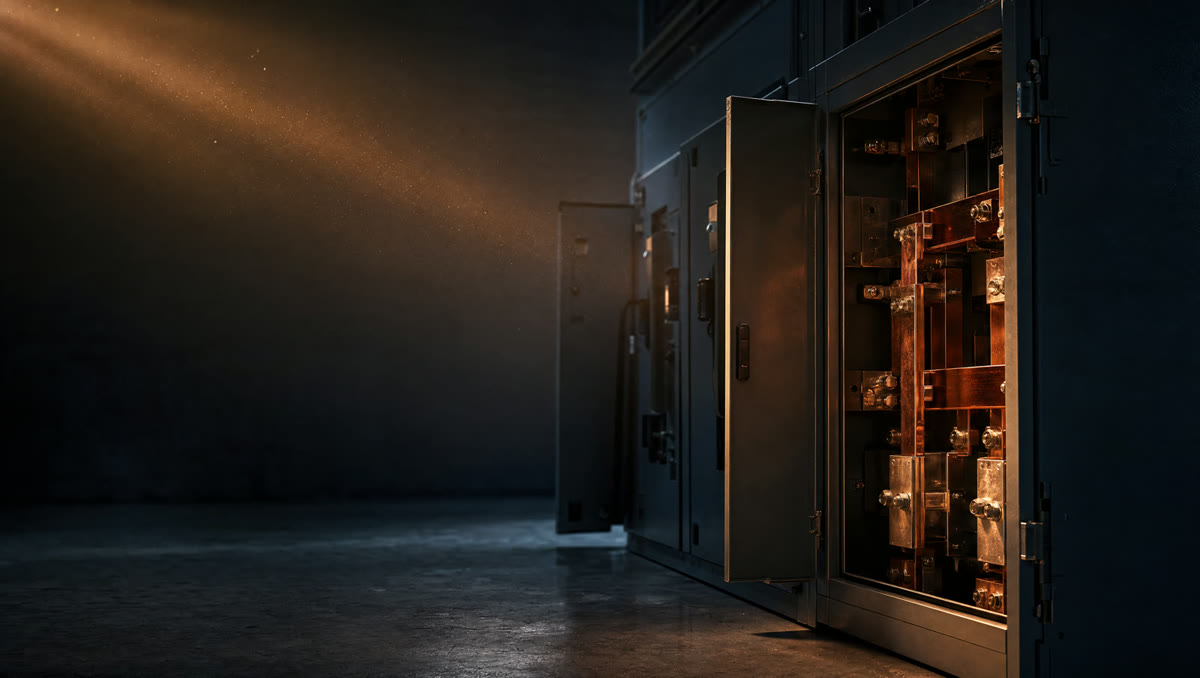
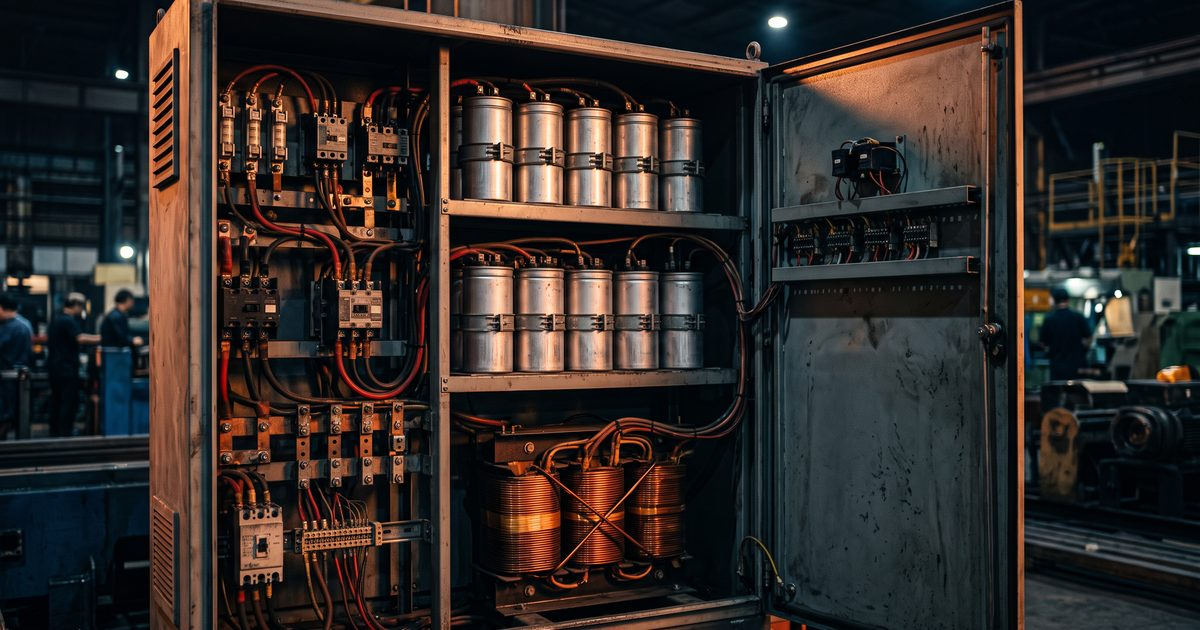
Add new image library to service pages and blog covers
Energy audit gets a "what waste looks like" gallery; compliance assurance
gets a data hall hero and two review shots; each SSEG tab gets its own
image; the SSEG and power factor posts get new covers and share images.

diff --git a/src/style.css b/src/style.css
@@ -587,3 +587,26 @@ body.video-failed .bg-video { display: none; }
 .tri-small { fill: var(--text); font: 600 20px var(--font); }
 .triangle figcaption { color: var(--muted); font-size: .92rem; margin-top: .8rem; }
 .tri-label--sub { font-weight: 500; font-size: 16px; }
+
+/* Image library (2026-10-25): the waste gallery, review shots, and a picture per SSEG tab */
+.waste-shots { display: grid; grid-template-columns: 1.6fr 1fr; grid-template-rows: auto 1fr 1fr; gap: 1.2rem 1.6rem; padding: 16vh var(--gutter); background: var(--bg); }
+.waste-shots__head { grid-column: 1 / -1; max-width: 46rem; margin-bottom: 1.2rem; }
+.waste-shots__head h2 { font-size: clamp(2rem, 4vw, 3.4rem); font-weight: 800; }
+.waste-shots figure { margin: 0; display: flex; flex-direction: column; min-width: 0; }
+.waste-shots img { width: 100%; flex: 1; min-height: 0; object-fit: cover; border-radius: var(--radius); }
+.waste-shots__main { grid-row: 2 / span 2; }
+.waste-shots__main img { aspect-ratio: 4 / 3; }
+.waste-shots figure:not(.waste-shots__main) img { aspect-ratio: 16 / 9; }
+.waste-shots figcaption, .shots figcaption { color: var(--muted); font-size: .95rem; margin-top: .7rem; }
+.shots { display: grid; grid-template-columns: 1.35fr 1fr; gap: 1.6rem; margin: 2rem 0 1rem; align-items: end; }
+.shots figure { margin: 0; min-width: 0; }
+.shots img { width: 100%; height: auto; aspect-ratio: 16 / 10; object-fit: cover; border-radius: var(--radius); }
+.shots figure:last-child img { aspect-ratio: 4 / 3; }
+.seg__img { width: 100%; height: auto; aspect-ratio: 16 / 10; object-fit: cover; border-radius: var(--radius); margin-bottom: 1.4rem; display: block; }
+@media (max-width: 768px) {
+  .waste-shots { grid-template-columns: 1fr; grid-template-rows: none; padding: 12vh 16px; }
+  .waste-shots__main { grid-row: auto; }
+  .waste-shots__main img { aspect-ratio: 4 / 3; }
+  .shots { grid-template-columns: 1fr; }
+  .shots figure:last-child img { aspect-ratio: 16 / 10; }
+}

diff --git a/sseg-commissioning/index.html b/sseg-commissioning/index.html
@@ -276,14 +276,17 @@
           <button role="tab" id="tab-ind" aria-selected="false" aria-controls="panel-ind" tabindex="-1">Industrial</button>
         </div>
         <div class="seg__panel" role="tabpanel" id="panel-res" aria-labelledby="tab-res">
+          <img class="seg__img" src="/img/home-solar.jpg" alt="A Cape Town home with rooftop solar panels at dusk, Table Mountain behind it" loading="lazy" width="1400" height="781" />
           <h3>Homeowners</h3>
           <p>Your installer has finished and the inverter is running, but the municipality has not approved the connection yet. We check the paperwork, test the system on site, and sign the commissioning report so your application can go in complete the first time.</p>
         </div>
         <div class="seg__panel" role="tabpanel" id="panel-com" aria-labelledby="tab-com" hidden>
+          <img class="seg__img" src="/img/sseg-inverters.jpg" alt="Hybrid inverters, isolators and a battery cabinet in a plant room" loading="lazy" width="1920" height="1072" />
           <h3>Business owners</h3>
           <p>Offices, retail, farms and hospitality sites with rooftop PV, backup batteries and generators. We test how the inverter, the backup supply and the grid behave together, so the system that saves you money doesn't become the one that trips you offline.</p>
         </div>
         <div class="seg__panel" role="tabpanel" id="panel-ind" aria-labelledby="tab-ind" hidden>
+          <img class="seg__img" src="/img/plant-night.jpg" alt="An industrial process plant lit up at night" loading="lazy" width="1400" height="781" />
           <h3>Industrial sites</h3>
           <p>Larger arrays, export limiting, protection settings and interfaces with existing MV and LV distribution. We commission against the utility's requirements and report what your engineering team needs for the long run, not just what the application form asks for.</p>
         </div>

diff --git a/blog/sseg-registration-cape-town-guide/index.html b/blog/sseg-registration-cape-town-guide/index.html
@@ -41,7 +41,7 @@
         "headline": "SSEG registration in Cape Town: A step-by-step guide for 2026",
         "description": "How to get a solar PV or battery system authorised by the City of Cape Town in 2026: Who must apply, the 11 steps, documents, sign-off and penalties.",
         "image": [
-          "https://bynergex.com/img/doorway.jpg",
+          "https://bynergex.com/img/sseg-inverters.jpg",
           "https://bynergex.com/img/blog-sseg-og.jpg"
         ],
         "datePublished": "2026-10-22",
@@ -181,7 +181,7 @@
   <main id="page">
     <article class="post">
       <header class="post-hero">
-        <img class="page-hero__bg page-hero__bg--flip" src="/img/doorway.jpg" alt="An open roller door looking out onto a rooftop of solar panels at dusk" fetchpriority="high" width="1920" height="1080" />
+        <img class="page-hero__bg" src="/img/sseg-inverters.jpg" alt="Two hybrid inverters, isolators and a battery cabinet installed in a plant room" fetchpriority="high" width="1920" height="1072" />
         <div class="page-hero__copy">
           <nav class="crumbs" aria-label="Breadcrumb"><a href="/">Home</a><span aria-hidden="true">/</span><a href="/blog/">Blog</a><span aria-hidden="true">/</span><span aria-current="page">SSEG registration in Cape Town</span></nav>
           <p class="kicker">SSEG commissioning · 2026 guide</p>

diff --git a/blog/power-factor-correction-south-africa/index.html b/blog/power-factor-correction-south-africa/index.html
@@ -41,7 +41,7 @@
         "headline": "Power factor correction in South Africa: How to stop paying for power that does no work",
         "description": "What power factor is, how Eskom's reactive energy charge and kVA demand charges penalise it, and how to correct it safely. With a worked example.",
         "image": [
-          "https://bynergex.com/img/material.jpg",
+          "https://bynergex.com/img/pfc-cabinet.jpg",
           "https://bynergex.com/img/blog-pf-og.jpg"
         ],
         "datePublished": "2026-10-25",
@@ -182,7 +182,7 @@
   <main id="page">
     <article class="post">
       <header class="post-hero">
-        <img class="page-hero__bg" src="/img/material.jpg" alt="An open medium-voltage switchgear panel with copper busbars" fetchpriority="high" width="1600" height="905" />
+        <img class="page-hero__bg" src="/img/pfc-cabinet.jpg" alt="An open power factor correction cabinet with capacitor banks, contactors and a detuning reactor" fetchpriority="high" width="1920" height="1072" />
         <div class="page-hero__copy">
           <nav class="crumbs" aria-label="Breadcrumb"><a href="/">Home</a><span aria-hidden="true">/</span><a href="/blog/">Blog</a><span aria-hidden="true">/</span><span aria-current="page">Power factor correction</span></nav>
           <p class="kicker">Energy efficiency · 2026 guide</p>

diff --git a/electrical-compliance-assurance/index.html b/electrical-compliance-assurance/index.html
@@ -235,7 +235,7 @@
 
   <main id="page">
     <section class="page-hero">
-      <img class="page-hero__bg" src="/img/hero.jpg" alt="" fetchpriority="high" />
+      <img class="page-hero__bg" src="/img/data-hall.jpg" alt="" fetchpriority="high" width="1920" height="1072" />
       <div class="page-hero__copy">
         <nav class="crumbs" aria-label="Breadcrumb"><a href="/">Home</a><span aria-hidden="true">/</span><span aria-current="page">Compliance assurance</span></nav>
         <p class="kicker">Owner's engineer · Electrical compliance review · South Africa</p>
@@ -316,6 +316,10 @@
 
     <section class="deliver deliver--band">
       <h2>Systems we review</h2>
+      <div class="shots">
+        <figure><img src="/img/test-kit.jpg" alt="Portable test equipment on a trolley beside a row of switchboard panels" loading="lazy" width="1400" height="781" /><figcaption>Commissioning tests and evidence, witnessed on site</figcaption></figure>
+        <figure><img src="/img/control-panel.jpg" alt="A PLC rack with input and output cards in a wired control panel" loading="lazy" width="1400" height="781" /><figcaption>PLC, interlock and control upgrades</figcaption></figure>
+      </div>
       <ul>
         <li>MV and LV distribution, protection and power quality</li>
         <li>11 kV switchgear and substations</li>

diff --git a/energy-audit/index.html b/energy-audit/index.html
@@ -331,6 +331,16 @@
       </div>
     </section>
 
+    <section class="waste-shots" aria-labelledby="waste-shots-title">
+      <div class="waste-shots__head">
+        <p class="kicker">What waste looks like</p>
+        <h2 id="waste-shots-title">Paid for every month. Used by nobody.</h2>
+      </div>
+      <figure class="waste-shots__main"><img src="/img/office-night.jpg" alt="An open-plan office floor fully lit at night with every desk empty" loading="lazy" width="1600" height="893" /><figcaption>An office floor lit and cooled at ten at night, with nobody in it.</figcaption></figure>
+      <figure><img src="/img/compressed-air.jpg" alt="Two air compressors and a receiver in a plant room, with air escaping from a fitting" loading="lazy" width="1400" height="781" /><figcaption>Compressed air escaping from a fitting, around the clock.</figcaption></figure>
+      <figure><img src="/img/plant-night.jpg" alt="An industrial process plant lit up at night" loading="lazy" width="1400" height="781" /><figcaption>Plant still drawing its night load long after production stops.</figcaption></figure>
+    </section>
+
     <section class="first">
       <div class="first__media" aria-hidden="true"><img src="/img/world.jpg" alt="" loading="lazy" /></div>
       <div class="first__copy">

diff --git a/blog/index.html b/blog/index.html
@@ -113,7 +113,7 @@
     <section class="blog-list" aria-label="Articles">
       <article class="post-card">
         <a class="post-card__media" href="/blog/power-factor-correction-south-africa/" tabindex="-1" aria-hidden="true">
-          <img src="/img/material.jpg" alt="" loading="lazy" width="1600" height="905" />
+          <img src="/img/pfc-cabinet.jpg" alt="" loading="lazy" width="1920" height="1072" />
         </a>
         <div class="post-card__body">
           <p class="post-meta"><time datetime="2026-10-25">25 October 2026</time> · Energy efficiency · 9 minute read</p>
@@ -124,7 +124,7 @@
       </article>
       <article class="post-card">
         <a class="post-card__media" href="/blog/sseg-registration-cape-town-guide/" tabindex="-1" aria-hidden="true">
-          <img src="/img/doorway.jpg" alt="" loading="lazy" width="1920" height="1080" />
+          <img src="/img/sseg-inverters.jpg" alt="" loading="lazy" width="1920" height="1072" />
         </a>
         <div class="post-card__body">
           <p class="post-meta"><time datetime="2026-10-22">22 October 2026</time> · SSEG commissioning · 8 minute read</p>
